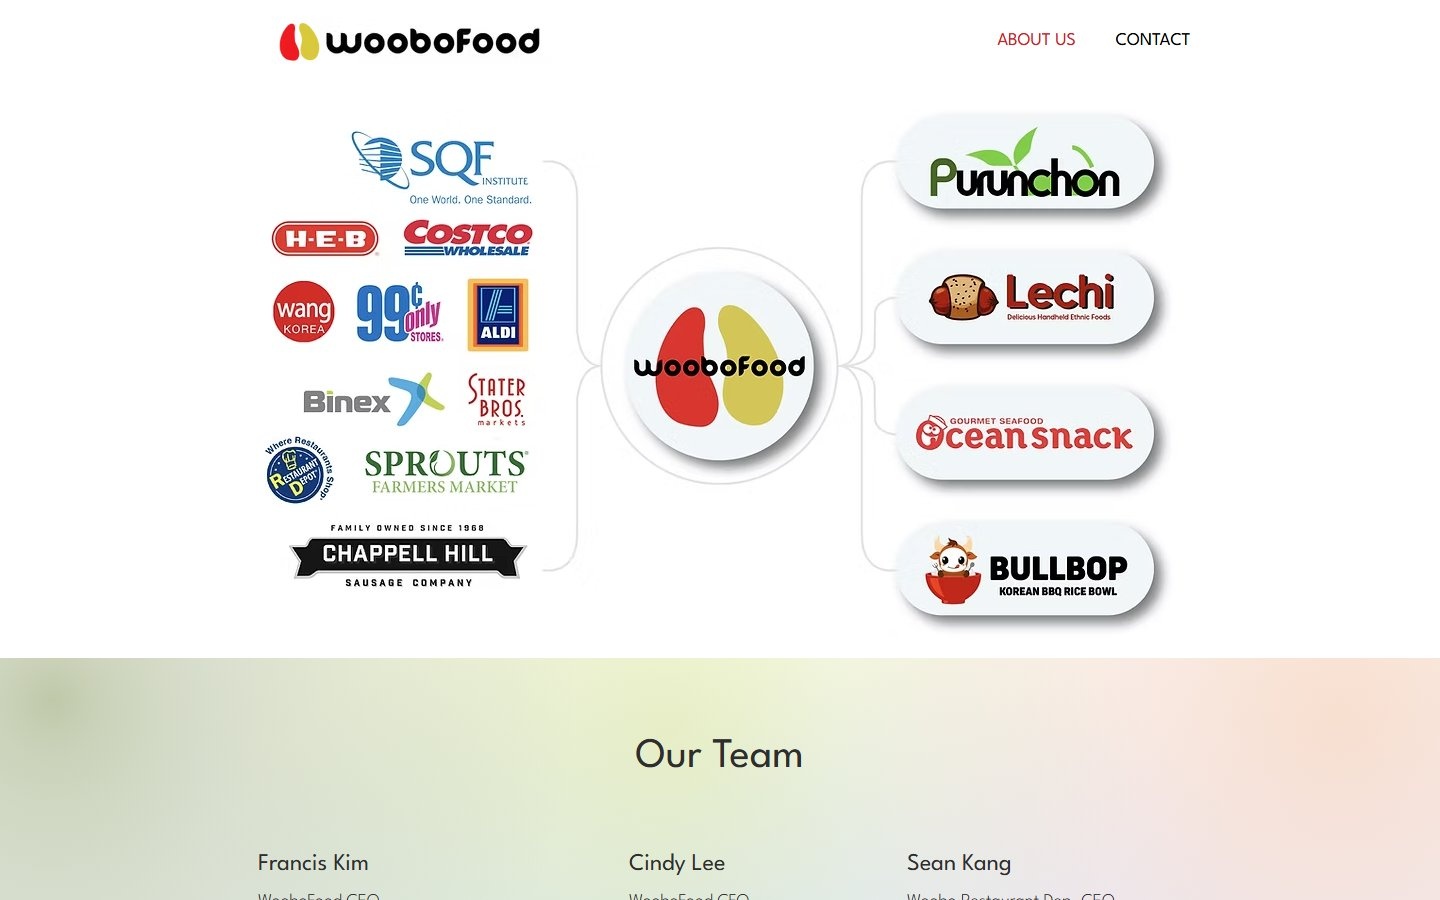
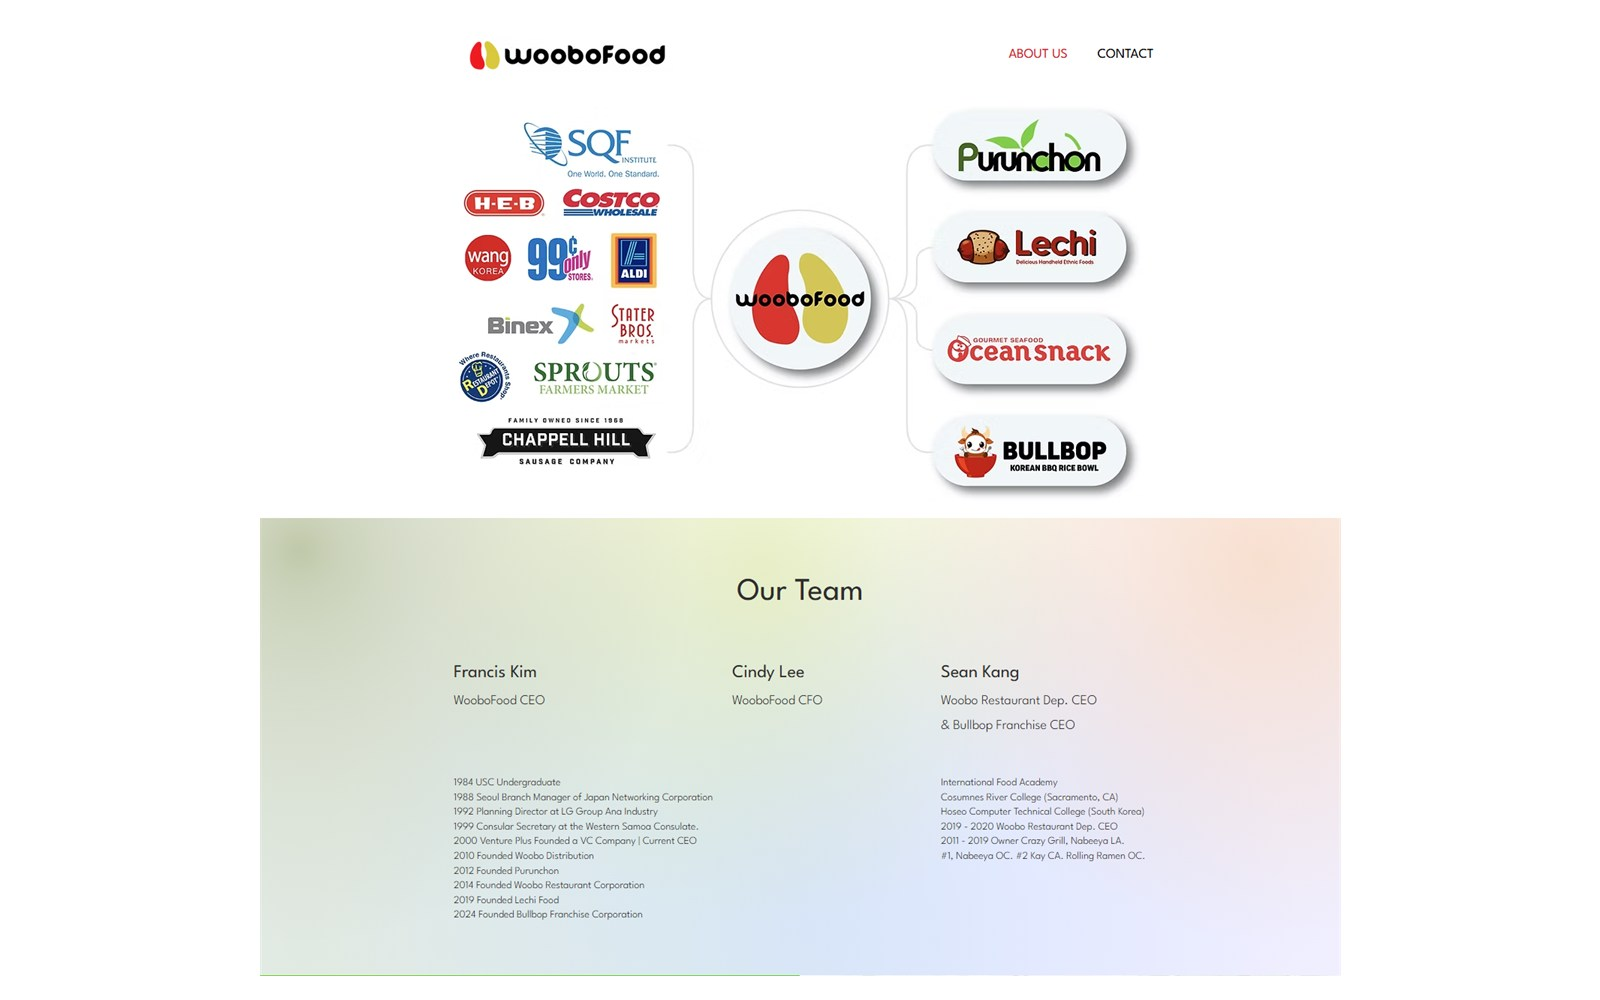
Re-cut Woobofood + Bullbop slides so each shows a whole page or section
Nine slides from the full-page captures instead of the top 900px of each page.

diff --git a/assets/media.js b/assets/media.js
@@ -1,7 +1,7 @@
 /* GENERATED by the media pipeline: covers, images [src, width, height] and video clips per project id. */
 window.MEDIA = {
   'squareone': { cover: 'images/squareone/01.jpg', coverRatio: '1600 / 1000', images: [['images/squareone/01.jpg', 1600, 1000], ['images/squareone/02.jpg', 1600, 1000], ['images/squareone/03.jpg', 1600, 1000], ['images/squareone/04.jpg', 1600, 1000], ['images/squareone/05.jpg', 1600, 1000], ['images/squareone/06.jpg', 1600, 1000], ['images/squareone/07.jpg', 1600, 1000], ['images/squareone/08.jpg', 1600, 1000], ['images/squareone/09.jpg', 1600, 1000], ['images/squareone/10.jpg', 1600, 1000], ['images/squareone/11.jpg', 1600, 1000]] },
-  'woobofood': { cover: 'images/woobofood/01.jpg', coverRatio: '1440 / 900', images: [['images/woobofood/01.jpg', 1440, 900], ['images/woobofood/02.jpg', 1440, 900], ['images/woobofood/03.jpg', 1440, 900], ['images/woobofood/04.jpg', 1440, 900], ['images/woobofood/05.jpg', 1440, 900], ['images/woobofood/06.jpg', 1440, 900], ['images/woobofood/07.jpg', 1440, 900], ['images/woobofood/08.jpg', 1440, 900]] },
+  'woobofood': { cover: 'images/woobofood/01.jpg', coverRatio: '1600 / 1000', images: [['images/woobofood/01.jpg', 1600, 1000], ['images/woobofood/02.jpg', 1600, 1000], ['images/woobofood/03.jpg', 1600, 1000], ['images/woobofood/04.jpg', 1600, 1000], ['images/woobofood/05.jpg', 1600, 1000], ['images/woobofood/06.jpg', 1600, 1000], ['images/woobofood/07.jpg', 1600, 1000], ['images/woobofood/08.jpg', 1600, 1000], ['images/woobofood/09.jpg', 1600, 1000]] },
   'soundtrack': { cover: 'images/covers/soundtrack.png', coverRatio: '2000 / 1125', images: [['images/soundtrack/01.png', 2000, 1125], ['images/soundtrack/02.png', 2000, 1125], ['images/soundtrack/03.png', 2000, 1125], ['images/soundtrack/04.png', 2000, 1125], ['images/soundtrack/05.png', 2000, 1125], ['images/soundtrack/06.jpg', 1024, 576], ['images/soundtrack/07.jpg', 1175, 1600], ['images/soundtrack/08.jpg', 1600, 900], ['images/soundtrack/sb-1.jpg', 1600, 900], ['images/soundtrack/sb-2.jpg', 1600, 900], ['images/soundtrack/sb-3.jpg', 1600, 900], ['images/soundtrack/12.jpg', 1920, 1080], ['images/soundtrack/13.jpg', 1920, 1080], ['images/soundtrack/14.jpg', 1920, 1081]] },
   'label-lunacy': { cover: 'images/covers/label-lunacy.jpg', coverRatio: '1280 / 720', images: [['images/label-lunacy/01.jpg', 1230, 560], ['images/label-lunacy/02.jpg', 1375, 626], ['images/label-lunacy/03.jpg', 928, 500], ['images/label-lunacy/04.jpg', 1532, 829], ['images/label-lunacy/05.jpg', 1920, 1080], ['images/label-lunacy/06.jpg', 1920, 1080], ['images/label-lunacy/07.jpg', 1920, 1080], ['images/label-lunacy/08.jpg', 1920, 1080], ['images/label-lunacy/09.jpg', 1920, 1080], ['images/label-lunacy/10.jpg', 1920, 1080], ['images/label-lunacy/11.jpg', 1920, 1080], ['images/label-lunacy/12.jpg', 1920, 1080]] },
   'moonrise': { cover: 'images/covers/moonrise.jpg', coverRatio: '2000 / 1125', images: [['images/moonrise/01.jpg', 2000, 1125], ['images/moonrise/02.jpg', 2000, 1125], ['images/moonrise/03.jpg', 2000, 1125], ['images/moonrise/04.jpg', 2000, 1125], ['images/moonrise/05.jpg', 2000, 1125], ['images/moonrise/06.jpg', 2000, 1125], ['images/moonrise/07.jpg', 2000, 1294], ['images/moonrise/08.jpg', 2000, 1294], ['images/moonrise/09.jpg', 2000, 1294], ['images/moonrise/10.jpg', 2000, 904], ['images/moonrise/11.jpg', 2000, 904], ['images/moonrise/12.jpg', 2000, 904]] },

diff --git a/index.html b/index.html
@@ -19,19 +19,19 @@
 <meta name="theme-color" content="#0B0D10" data-theme-meta>
 <link rel="icon" href="favicon.ico" sizes="48x48">
 <link rel="icon" href="favicon-32.png" type="image/png" sizes="32x32">
-<link rel="icon" href="assets/logo.svg?v=202611212214" type="image/svg+xml">
+<link rel="icon" href="assets/logo.svg?v=202611212229" type="image/svg+xml">
 <link rel="apple-touch-icon" href="apple-touch-icon.png">
 <link rel="preconnect" href="https://fonts.googleapis.com">
 <link rel="preconnect" href="https://fonts.gstatic.com" crossorigin>
 <link href="https://fonts.googleapis.com/css2?family=Unbounded:wght@800;900&family=Manrope:wght@400;500;700;800&family=Martian+Mono:wght@400;500&display=swap" rel="stylesheet">
-<link rel="stylesheet" href="assets/style.css?v=202611212214">
+<link rel="stylesheet" href="assets/style.css?v=202611212229">
 </head>
 <body>
 <div class="es">
 <a class="es-skip" href="#main">Skip to content</a>
 <header class="es-header">
   <div class="es-wrap es-header__row">
-    <a class="es-logo" href="./" aria-label="Eva Song, home"><img src="assets/logo.svg?v=202611212214" alt="Eva Song logo" width="36" height="46"></a>
+    <a class="es-logo" href="./" aria-label="Eva Song, home"><img src="assets/logo.svg?v=202611212229" alt="Eva Song logo" width="36" height="46"></a>
     <div class="es-header__right">
       <nav class="es-nav" aria-label="Main">
       <a href="./#work"><span>[W]</span> Work</a>
@@ -77,7 +77,7 @@
     </div>
   </nav>
 
-  <!-- 01 SEASON PASS (WORK): tiles are built from assets/data.js?v=202611212214 -->
+  <!-- 01 SEASON PASS (WORK): tiles are built from assets/data.js?v=202611212229 -->
   <section class="es-section es-pass" id="work" aria-label="Season pass">
     <div class="es-wrap es-headrow">
       <div>
@@ -194,9 +194,9 @@
 
 </main>
 </div>
-<script src="assets/media.js?v=202611212214"></script>
-<script src="assets/data.js?v=202611212214"></script>
-<script src="assets/main.js?v=202611212214"></script>
+<script src="assets/media.js?v=202611212229"></script>
+<script src="assets/data.js?v=202611212229"></script>
+<script src="assets/main.js?v=202611212229"></script>
 <!-- visitor stats: https://evasong.goatcounter.com (no cookies) -->
 <script data-goatcounter="https://evasong.goatcounter.com/count" async src="//gc.zgo.at/count.js"></script>
 </body>

diff --git a/project.html b/project.html
@@ -18,19 +18,19 @@
 <meta name="theme-color" content="#0B0D10" data-theme-meta>
 <link rel="icon" href="favicon.ico" sizes="48x48">
 <link rel="icon" href="favicon-32.png" type="image/png" sizes="32x32">
-<link rel="icon" href="assets/logo.svg?v=202611212214" type="image/svg+xml">
+<link rel="icon" href="assets/logo.svg?v=202611212229" type="image/svg+xml">
 <link rel="apple-touch-icon" href="apple-touch-icon.png">
 <link rel="preconnect" href="https://fonts.googleapis.com">
 <link rel="preconnect" href="https://fonts.gstatic.com" crossorigin>
 <link href="https://fonts.googleapis.com/css2?family=Unbounded:wght@800;900&family=Manrope:wght@400;500;700;800&family=Martian+Mono:wght@400;500&display=swap" rel="stylesheet">
-<link rel="stylesheet" href="assets/style.css?v=202611212214">
+<link rel="stylesheet" href="assets/style.css?v=202611212229">
 </head>
 <body>
 <div class="es">
 <a class="es-skip" href="#main">Skip to content</a>
 <header class="es-header">
   <div class="es-wrap es-header__row">
-    <a class="es-logo" href="./" aria-label="Eva Song, home"><img src="assets/logo.svg?v=202611212214" alt="Eva Song logo" width="36" height="46"></a>
+    <a class="es-logo" href="./" aria-label="Eva Song, home"><img src="assets/logo.svg?v=202611212229" alt="Eva Song logo" width="36" height="46"></a>
     <div class="es-header__right">
       <nav class="es-nav" aria-label="Main">
       <a href="./#work" aria-current="page"><span>[W]</span> Work</a>
@@ -50,9 +50,9 @@
   <nav aria-label="Social"><a data-link="email" href="#">Email</a><a data-link="linkedin" href="#">LinkedIn</a><a data-link="instagram" href="#">Instagram</a><a data-link="resume" href="#">R&eacute;sum&eacute;</a></nav>
 </div></div></footer></main>
 </div>
-<script src="assets/media.js?v=202611212214"></script>
-<script src="assets/data.js?v=202611212214"></script>
-<script src="assets/main.js?v=202611212214"></script>
+<script src="assets/media.js?v=202611212229"></script>
+<script src="assets/data.js?v=202611212229"></script>
+<script src="assets/main.js?v=202611212229"></script>
 <!-- visitor stats: https://evasong.goatcounter.com (no cookies) -->
 <script data-goatcounter="https://evasong.goatcounter.com/count" async src="//gc.zgo.at/count.js"></script>
 </body>

diff --git a/history.html b/history.html
@@ -18,19 +18,19 @@
 <meta name="theme-color" content="#0B0D10" data-theme-meta>
 <link rel="icon" href="favicon.ico" sizes="48x48">
 <link rel="icon" href="favicon-32.png" type="image/png" sizes="32x32">
-<link rel="icon" href="assets/logo.svg?v=202611212214" type="image/svg+xml">
+<link rel="icon" href="assets/logo.svg?v=202611212229" type="image/svg+xml">
 <link rel="apple-touch-icon" href="apple-touch-icon.png">
 <link rel="preconnect" href="https://fonts.googleapis.com">
 <link rel="preconnect" href="https://fonts.gstatic.com" crossorigin>
 <link href="https://fonts.googleapis.com/css2?family=Unbounded:wght@800;900&family=Manrope:wght@400;500;700;800&family=Martian+Mono:wght@400;500&display=swap" rel="stylesheet">
-<link rel="stylesheet" href="assets/style.css?v=202611212214">
+<link rel="stylesheet" href="assets/style.css?v=202611212229">
 </head>
 <body>
 <div class="es">
 <a class="es-skip" href="#main">Skip to content</a>
 <header class="es-header">
   <div class="es-wrap es-header__row">
-    <a class="es-logo" href="./" aria-label="Eva Song, home"><img src="assets/logo.svg?v=202611212214" alt="Eva Song logo" width="36" height="46"></a>
+    <a class="es-logo" href="./" aria-label="Eva Song, home"><img src="assets/logo.svg?v=202611212229" alt="Eva Song logo" width="36" height="46"></a>
     <div class="es-header__right">
       <nav class="es-nav" aria-label="Main">
       <a href="./#work"><span>[W]</span> Work</a>
@@ -218,9 +218,9 @@
 </main>
 
 </div>
-<script src="assets/media.js?v=202611212214"></script>
-<script src="assets/data.js?v=202611212214"></script>
-<script src="assets/main.js?v=202611212214"></script>
+<script src="assets/media.js?v=202611212229"></script>
+<script src="assets/data.js?v=202611212229"></script>
+<script src="assets/main.js?v=202611212229"></script>
 <!-- visitor stats: https://evasong.goatcounter.com (no cookies) -->
 <script data-goatcounter="https://evasong.goatcounter.com/count" async src="//gc.zgo.at/count.js"></script>
 </body>

diff --git a/play.html b/play.html
@@ -18,19 +18,19 @@
 <meta name="theme-color" content="#0B0D10" data-theme-meta>
 <link rel="icon" href="favicon.ico" sizes="48x48">
 <link rel="icon" href="favicon-32.png" type="image/png" sizes="32x32">
-<link rel="icon" href="assets/logo.svg?v=202611212214" type="image/svg+xml">
+<link rel="icon" href="assets/logo.svg?v=202611212229" type="image/svg+xml">
 <link rel="apple-touch-icon" href="apple-touch-icon.png">
 <link rel="preconnect" href="https://fonts.googleapis.com">
 <link rel="preconnect" href="https://fonts.gstatic.com" crossorigin>
 <link href="https://fonts.googleapis.com/css2?family=Unbounded:wght@800;900&family=Manrope:wght@400;500;700;800&family=Martian+Mono:wght@400;500&display=swap" rel="stylesheet">
-<link rel="stylesheet" href="assets/style.css?v=202611212214">
+<link rel="stylesheet" href="assets/style.css?v=202611212229">
 </head>
 <body>
 <div class="es">
 <a class="es-skip" href="#main">Skip to content</a>
 <header class="es-header">
   <div class="es-wrap es-header__row">
-    <a class="es-logo" href="./" aria-label="Eva Song, home"><img src="assets/logo.svg?v=202611212214" alt="Eva Song logo" width="36" height="46"></a>
+    <a class="es-logo" href="./" aria-label="Eva Song, home"><img src="assets/logo.svg?v=202611212229" alt="Eva Song logo" width="36" height="46"></a>
     <div class="es-header__right">
       <nav class="es-nav" aria-label="Main">
       <a href="./#work"><span>[W]</span> Work</a>
@@ -101,9 +101,9 @@
 </main>
 
 </div>
-<script src="assets/media.js?v=202611212214"></script>
-<script src="assets/data.js?v=202611212214"></script>
-<script src="assets/main.js?v=202611212214"></script>
+<script src="assets/media.js?v=202611212229"></script>
+<script src="assets/data.js?v=202611212229"></script>
+<script src="assets/main.js?v=202611212229"></script>
 <!-- visitor stats: https://evasong.goatcounter.com (no cookies) -->
 <script data-goatcounter="https://evasong.goatcounter.com/count" async src="//gc.zgo.at/count.js"></script>
 </body>

diff --git a/404.html b/404.html
@@ -19,19 +19,19 @@
 <meta name="theme-color" content="#0B0D10" data-theme-meta>
 <link rel="icon" href="favicon.ico" sizes="48x48">
 <link rel="icon" href="favicon-32.png" type="image/png" sizes="32x32">
-<link rel="icon" href="assets/logo.svg?v=202611212214" type="image/svg+xml">
+<link rel="icon" href="assets/logo.svg?v=202611212229" type="image/svg+xml">
 <link rel="apple-touch-icon" href="apple-touch-icon.png">
 <link rel="preconnect" href="https://fonts.googleapis.com">
 <link rel="preconnect" href="https://fonts.gstatic.com" crossorigin>
 <link href="https://fonts.googleapis.com/css2?family=Unbounded:wght@800;900&family=Manrope:wght@400;500;700;800&family=Martian+Mono:wght@400;500&display=swap" rel="stylesheet">
-<link rel="stylesheet" href="assets/style.css?v=202611212214">
+<link rel="stylesheet" href="assets/style.css?v=202611212229">
 </head>
 <body>
 <div class="es">
 <a class="es-skip" href="#main">Skip to content</a>
 <header class="es-header">
   <div class="es-wrap es-header__row">
-    <a class="es-logo" href="/" aria-label="Eva Song, home"><img src="assets/logo.svg?v=202611212214" alt="Eva Song logo" width="36" height="46"></a>
+    <a class="es-logo" href="/" aria-label="Eva Song, home"><img src="assets/logo.svg?v=202611212229" alt="Eva Song logo" width="36" height="46"></a>
     <div class="es-header__right">
       <nav class="es-nav" aria-label="Main">
       <a href="/#work"><span>[W]</span> Work</a>
@@ -53,9 +53,9 @@
 </main>
 
 </div>
-<script src="assets/media.js?v=202611212214"></script>
-<script src="assets/data.js?v=202611212214"></script>
-<script src="assets/main.js?v=202611212214"></script>
+<script src="assets/media.js?v=202611212229"></script>
+<script src="assets/data.js?v=202611212229"></script>
+<script src="assets/main.js?v=202611212229"></script>
 <!-- visitor stats: https://evasong.goatcounter.com (no cookies) -->
 <script data-goatcounter="https://evasong.goatcounter.com/count" async src="//gc.zgo.at/count.js"></script>
 </body>
